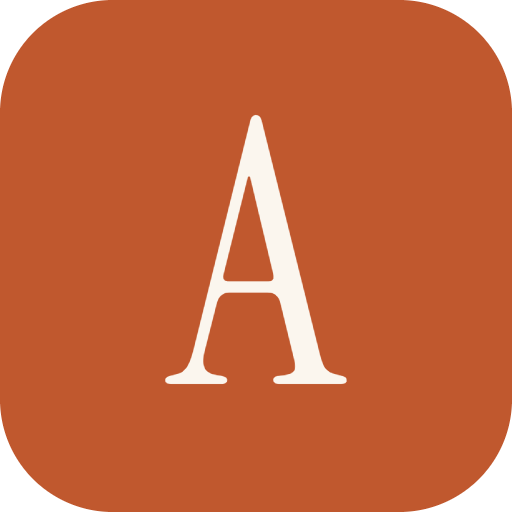
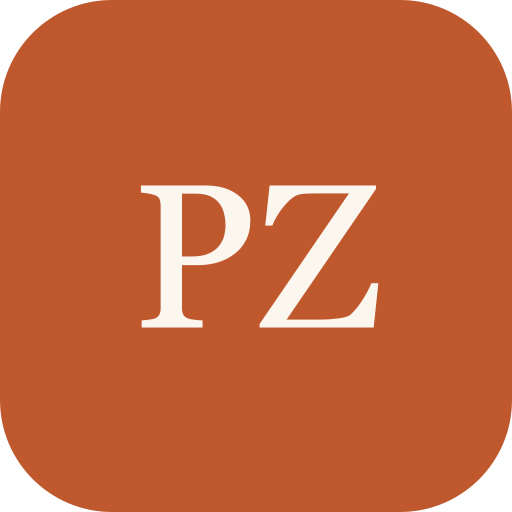
Le site s'appelle PhotoZo
« Zo », en Côte d'Ivoire, veut dire joli : PhotoZo, c'est la jolie photo.
Le nom change dans l'en-tête, le pied de page, les titres d'onglet, les
métadonnées de partage, le manifeste PWA et l'auteur des PDF exportés.

L'icône passe du « A » serif au monogramme « PZ », même terre cuite et même
crème qu'avant (192, 88, 46 sur FBF6EE).

Deux identifiants internes portaient l'ancien nom :
- le cache du Service Worker devient « photozo-photos-v1 », et l'activation
  supprime désormais les caches d'un autre nom — sinon les photos rangées
  sous l'ancien seraient restées sur le téléphone sans jamais être relues ;
- la base IndexedDB « anthologie-envois » garde son nom, commentaire à
  l'appui : la renommer abandonnerait les envois en attente sur les
  téléphones qui ont déjà ouvert le site.

Changed region(s): [[0.2812, 0.2188, 0.75, 0.75]]

diff --git a/src/routes/__root.tsx b/src/routes/__root.tsx
@@ -91,15 +91,15 @@ export const Route = createRootRouteWithContext<{ queryClient: QueryClient }>()(
       { name: "theme-color", content: "#FBF6EE" },
       { name: "mobile-web-app-capable", content: "yes" },
       { name: "apple-mobile-web-app-capable", content: "yes" },
-      { name: "apple-mobile-web-app-title", content: "Anthologie" },
+      { name: "apple-mobile-web-app-title", content: "PhotoZo" },
       { name: "apple-mobile-web-app-status-bar-style", content: "default" },
-      { title: "Anthologie — Vos albums photos" },
+      { title: "PhotoZo — Vos albums photos" },
       {
         name: "description",
         content: "Créez et partagez vos albums photos dans un espace calme et élégant.",
       },
-      { name: "author", content: "Anthologie" },
-      { property: "og:title", content: "Anthologie — Vos albums photos" },
+      { name: "author", content: "PhotoZo" },
+      { property: "og:title", content: "PhotoZo — Vos albums photos" },
       {
         property: "og:description",
         content: "Créez et partagez vos albums photos dans un espace calme et élégant.",
@@ -261,7 +261,7 @@ function Header() {
           to="/"
           className="shrink-0 font-serif text-xl tracking-tight text-foreground sm:text-2xl"
         >
-          Anthologie
+          PhotoZo
         </Link>
         {/* Barre défilante : sur un téléphone, quatre liens et un bouton ne
             tiennent pas côte à côte sans écraser le logo. */}
@@ -317,7 +317,7 @@ function Footer() {
     <footer className="border-t border-border py-10 sm:py-16">
       <div className="max-w-6xl mx-auto px-6 flex flex-col md:flex-row justify-between gap-12">
         <div className="max-w-[40ch]">
-          <span className="font-serif text-xl mb-4 block text-foreground">Anthologie</span>
+          <span className="font-serif text-xl mb-4 block text-foreground">PhotoZo</span>
           <p className="text-sm text-muted-foreground">
             Conçu pour l’observateur patient. Construisez votre héritage numérique une image à la
             fois.

diff --git a/public/sw.js b/public/sw.js
@@ -1,5 +1,5 @@
 /*
- * Service Worker d'Anthologie : cache des vignettes et versions d'affichage.
+ * Service Worker de PhotoZo : cache des vignettes et versions d'affichage.
  *
  * Les photos passent par des URL signées dont le jeton change à chaque
  * signature, et Supabase ne renvoie pas d'en-tête Cache-Control : le
@@ -11,12 +11,23 @@
  * Seules les versions transformées (vignette, affichage) sont concernées. Le
  * fichier d'impression n'est jamais mis en cache.
  */
-const CACHE = "anthologie-photos-v1";
+const CACHE = "photozo-photos-v1";
 const MAX_ENTRIES = 2000;
 const RENDER_PATH = "/storage/v1/render/image/sign/photos/";
 
 self.addEventListener("install", () => self.skipWaiting());
-self.addEventListener("activate", (event) => event.waitUntil(self.clients.claim()));
+// Le cache s'appelait « anthologie-photos-v1 » avant le changement de nom :
+// on le supprime à l'activation, sinon il resterait sur le téléphone sans
+// jamais être relu.
+self.addEventListener("activate", (event) =>
+  event.waitUntil(
+    (async () => {
+      const names = await caches.keys();
+      await Promise.all(names.filter((name) => name !== CACHE).map((name) => caches.delete(name)));
+      await self.clients.claim();
+    })(),
+  ),
+);
 
 function stableKey(requestUrl) {
   const url = new URL(requestUrl);
@@ -25,7 +36,7 @@ function stableKey(requestUrl) {
   try {
     const payload = JSON.parse(atob(token.split(".")[1].replace(/-/g, "+").replace(/_/g, "/")));
     if (!payload.url) return null;
-    return url.origin + "/anthologie-cache/" + payload.url + "?" + (payload.transformations || "");
+    return url.origin + "/photozo-cache/" + payload.url + "?" + (payload.transformations || "");
   } catch {
     return null;
   }

diff --git a/src/routes/index.tsx b/src/routes/index.tsx
@@ -10,13 +10,13 @@ const MOBILE_FIRST_SIZES = "(max-width: 640px) 50vw, 100vw";
 export const Route = createFileRoute("/")({
   head: () => ({
     meta: [
-      { title: "Anthologie — Vos albums photos" },
+      { title: "PhotoZo — Vos albums photos" },
       {
         name: "description",
         content:
           "Mariages, baptêmes, anniversaires, réunions de famille : importez les photos de votre téléphone, elles se rangent toutes seules, un album par événement.",
       },
-      { property: "og:title", content: "Anthologie — Vos albums photos" },
+      { property: "og:title", content: "PhotoZo — Vos albums photos" },
       {
         property: "og:description",
         content:
@@ -78,7 +78,7 @@ function HomePage() {
           </h1>
           <p className="mt-6 max-w-[52ch] text-pretty text-lg leading-relaxed text-white/85">
             Mariages, baptêmes, anniversaires, réunions de famille : importez les photos de votre
-            téléphone, Anthologie lit leur date de prise de vue et en fait un album par événement.
+            téléphone, PhotoZo lit leur date de prise de vue et en fait un album par événement.
           </p>
           <div className="mt-10 flex flex-wrap gap-3">
             <Link
@@ -135,7 +135,7 @@ function HomePage() {
         <div className="mx-auto max-w-3xl px-6 py-24 text-center lg:py-32">
           <p className="text-balance font-serif text-3xl leading-snug text-white md:text-4xl">
             Le baptême du samedi et le repas de famille du dimanche ne racontent pas la même
-            histoire. Anthologie s’en souvient pour vous.
+            histoire. PhotoZo s’en souvient pour vous.
           </p>
         </div>
       </section>

diff --git a/src/routes/_authenticated/albums.tsx b/src/routes/_authenticated/albums.tsx
@@ -2,10 +2,10 @@ import { createFileRoute, Outlet } from "@tanstack/react-router";
 export const Route = createFileRoute("/_authenticated/albums")({
   head: () => ({
     meta: [
-      { title: "Mes albums — Anthologie" },
-      { name: "description", content: "Retrouvez et gérez tous vos albums photos dans votre bibliothèque Anthologie." },
-      { property: "og:title", content: "Mes albums — Anthologie" },
-      { property: "og:description", content: "Retrouvez et gérez tous vos albums photos dans votre bibliothèque Anthologie." },
+      { title: "Mes albums — PhotoZo" },
+      { name: "description", content: "Retrouvez et gérez tous vos albums photos dans votre bibliothèque PhotoZo." },
+      { property: "og:title", content: "Mes albums — PhotoZo" },
+      { property: "og:description", content: "Retrouvez et gérez tous vos albums photos dans votre bibliothèque PhotoZo." },
     ],
   }),
   component: AlbumsLayout,

diff --git a/src/lib/print-export.ts b/src/lib/print-export.ts
@@ -410,7 +410,7 @@ export async function exportBook(options: ExportOptions): Promise<ExportResult> 
   const interior = await PDFDocument.create();
   interior.setTitle(meta.title);
   interior.setSubject("Intérieur — " + format.label);
-  interior.setCreator("Anthologie");
+  interior.setCreator("PhotoZo");
 
   const serif = await interior.embedFont(StandardFonts.TimesRoman);
   const serifItalic = await interior.embedFont(StandardFonts.TimesRomanItalic);
@@ -575,7 +575,7 @@ export async function exportBook(options: ExportOptions): Promise<ExportResult> 
   const cover = await PDFDocument.create();
   cover.setTitle(meta.title + " — couverture");
   cover.setSubject("Couverture — dos " + spine + " mm");
-  cover.setCreator("Anthologie");
+  cover.setCreator("PhotoZo");
 
   const coverSerif = await cover.embedFont(StandardFonts.TimesRoman);
   const coverSerifItalic = await cover.embedFont(StandardFonts.TimesRomanItalic);

diff --git a/src/routes/auth.tsx b/src/routes/auth.tsx
@@ -9,15 +9,15 @@ import { supportsLovableOAuth } from "@/lib/hosting";
 export const Route = createFileRoute("/auth")({
   head: () => ({
     meta: [
-      { title: "Connexion — Anthologie" },
+      { title: "Connexion — PhotoZo" },
       {
         name: "description",
-        content: "Connectez-vous à Anthologie pour créer et retrouver vos albums photos.",
+        content: "Connectez-vous à PhotoZo pour créer et retrouver vos albums photos.",
       },
-      { property: "og:title", content: "Connexion — Anthologie" },
+      { property: "og:title", content: "Connexion — PhotoZo" },
       {
         property: "og:description",
-        content: "Connectez-vous à Anthologie pour créer et retrouver vos albums photos.",
+        content: "Connectez-vous à PhotoZo pour créer et retrouver vos albums photos.",
       },
     ],
   }),

diff --git a/src/routes/_authenticated/albums.$albumId.tsx b/src/routes/_authenticated/albums.$albumId.tsx
@@ -15,12 +15,12 @@ import { PhotoViewer, type ViewerItem } from "@/components/PhotoViewer";
 export const Route = createFileRoute("/_authenticated/albums/$albumId")({
   head: () => ({
     meta: [
-      { title: "Album — Anthologie" },
+      { title: "Album — PhotoZo" },
       {
         name: "description",
         content: "Consultez les photographies de votre album et ajoutez-en de nouvelles.",
       },
-      { property: "og:title", content: "Album — Anthologie" },
+      { property: "og:title", content: "Album — PhotoZo" },
       {
         property: "og:description",
         content: "Consultez les photographies de votre album et ajoutez-en de nouvelles.",

diff --git a/src/routes/_authenticated/albums.new.tsx b/src/routes/_authenticated/albums.new.tsx
@@ -14,12 +14,12 @@ import { findWallpaper } from "@/lib/wallpapers";
 export const Route = createFileRoute("/_authenticated/albums/new")({
   head: () => ({
     meta: [
-      { title: "Nouvel album — Anthologie" },
+      { title: "Nouvel album — PhotoZo" },
       {
         name: "description",
         content: "Créez un nouvel album photo et commencez à y relier vos souvenirs.",
       },
-      { property: "og:title", content: "Nouvel album — Anthologie" },
+      { property: "og:title", content: "Nouvel album — PhotoZo" },
       {
         property: "og:description",
         content: "Créez un nouvel album photo et commencez à y relier vos souvenirs.",

diff --git a/src/lib/upload-queue.ts b/src/lib/upload-queue.ts
@@ -156,6 +156,9 @@ function openDb(): Promise<IDBDatabase | null> {
   if (typeof indexedDB === "undefined") return Promise.resolve(null);
   dbPromise ??= new Promise((resolve) => {
     try {
+      // Nom d'origine gardé volontairement malgré le passage à PhotoZo : le
+      // renommer abandonnerait les envois en attente sur les téléphones qui
+      // ont déjà ouvert le site.
       const request = indexedDB.open("anthologie-envois", 1);
       request.onupgradeneeded = () =>
         request.result.createObjectStore("items", { keyPath: "photoId" });

diff --git a/src/lib/gallery.ts b/src/lib/gallery.ts
@@ -1,7 +1,7 @@
 /**
  * Photographies d'événements familiaux utilisées comme décor du site.
  *
- * Anthologie sert à garder les mariages, baptêmes, anniversaires et réunions
+ * PhotoZo sert à garder les mariages, baptêmes, anniversaires et réunions
  * de famille : le décor doit montrer des gens qui se retrouvent, pas des
  * paysages. Toutes viennent de Wikimedia Commons (concours Wiki Loves Africa)
  * sous CC BY-SA 4.0, qui impose de créditer l'auteur : les mentions ci-dessous

diff --git a/src/routes/_authenticated/albums.import.tsx b/src/routes/_authenticated/albums.import.tsx
@@ -27,7 +27,7 @@ import { DEFAULT_COVER_TEMPLATE, findCoverTemplate } from "@/lib/cover-templates
 export const Route = createFileRoute("/_authenticated/albums/import")({
   head: () => ({
     meta: [
-      { title: "Importer depuis mon téléphone — Anthologie" },
+      { title: "Importer depuis mon téléphone — PhotoZo" },
       {
         name: "description",
         content:

diff --git a/src/routes/_authenticated/albums.book.$albumId.tsx b/src/routes/_authenticated/albums.book.$albumId.tsx
@@ -46,7 +46,7 @@ import {
 export const Route = createFileRoute("/_authenticated/albums/book/$albumId")({
   head: () => ({
     meta: [
-      { title: "Mon livre — Anthologie" },
+      { title: "Mon livre — PhotoZo" },
       {
         name: "description",
         content: "Feuilletez votre album, disposez les photos, ajoutez des légendes.",
